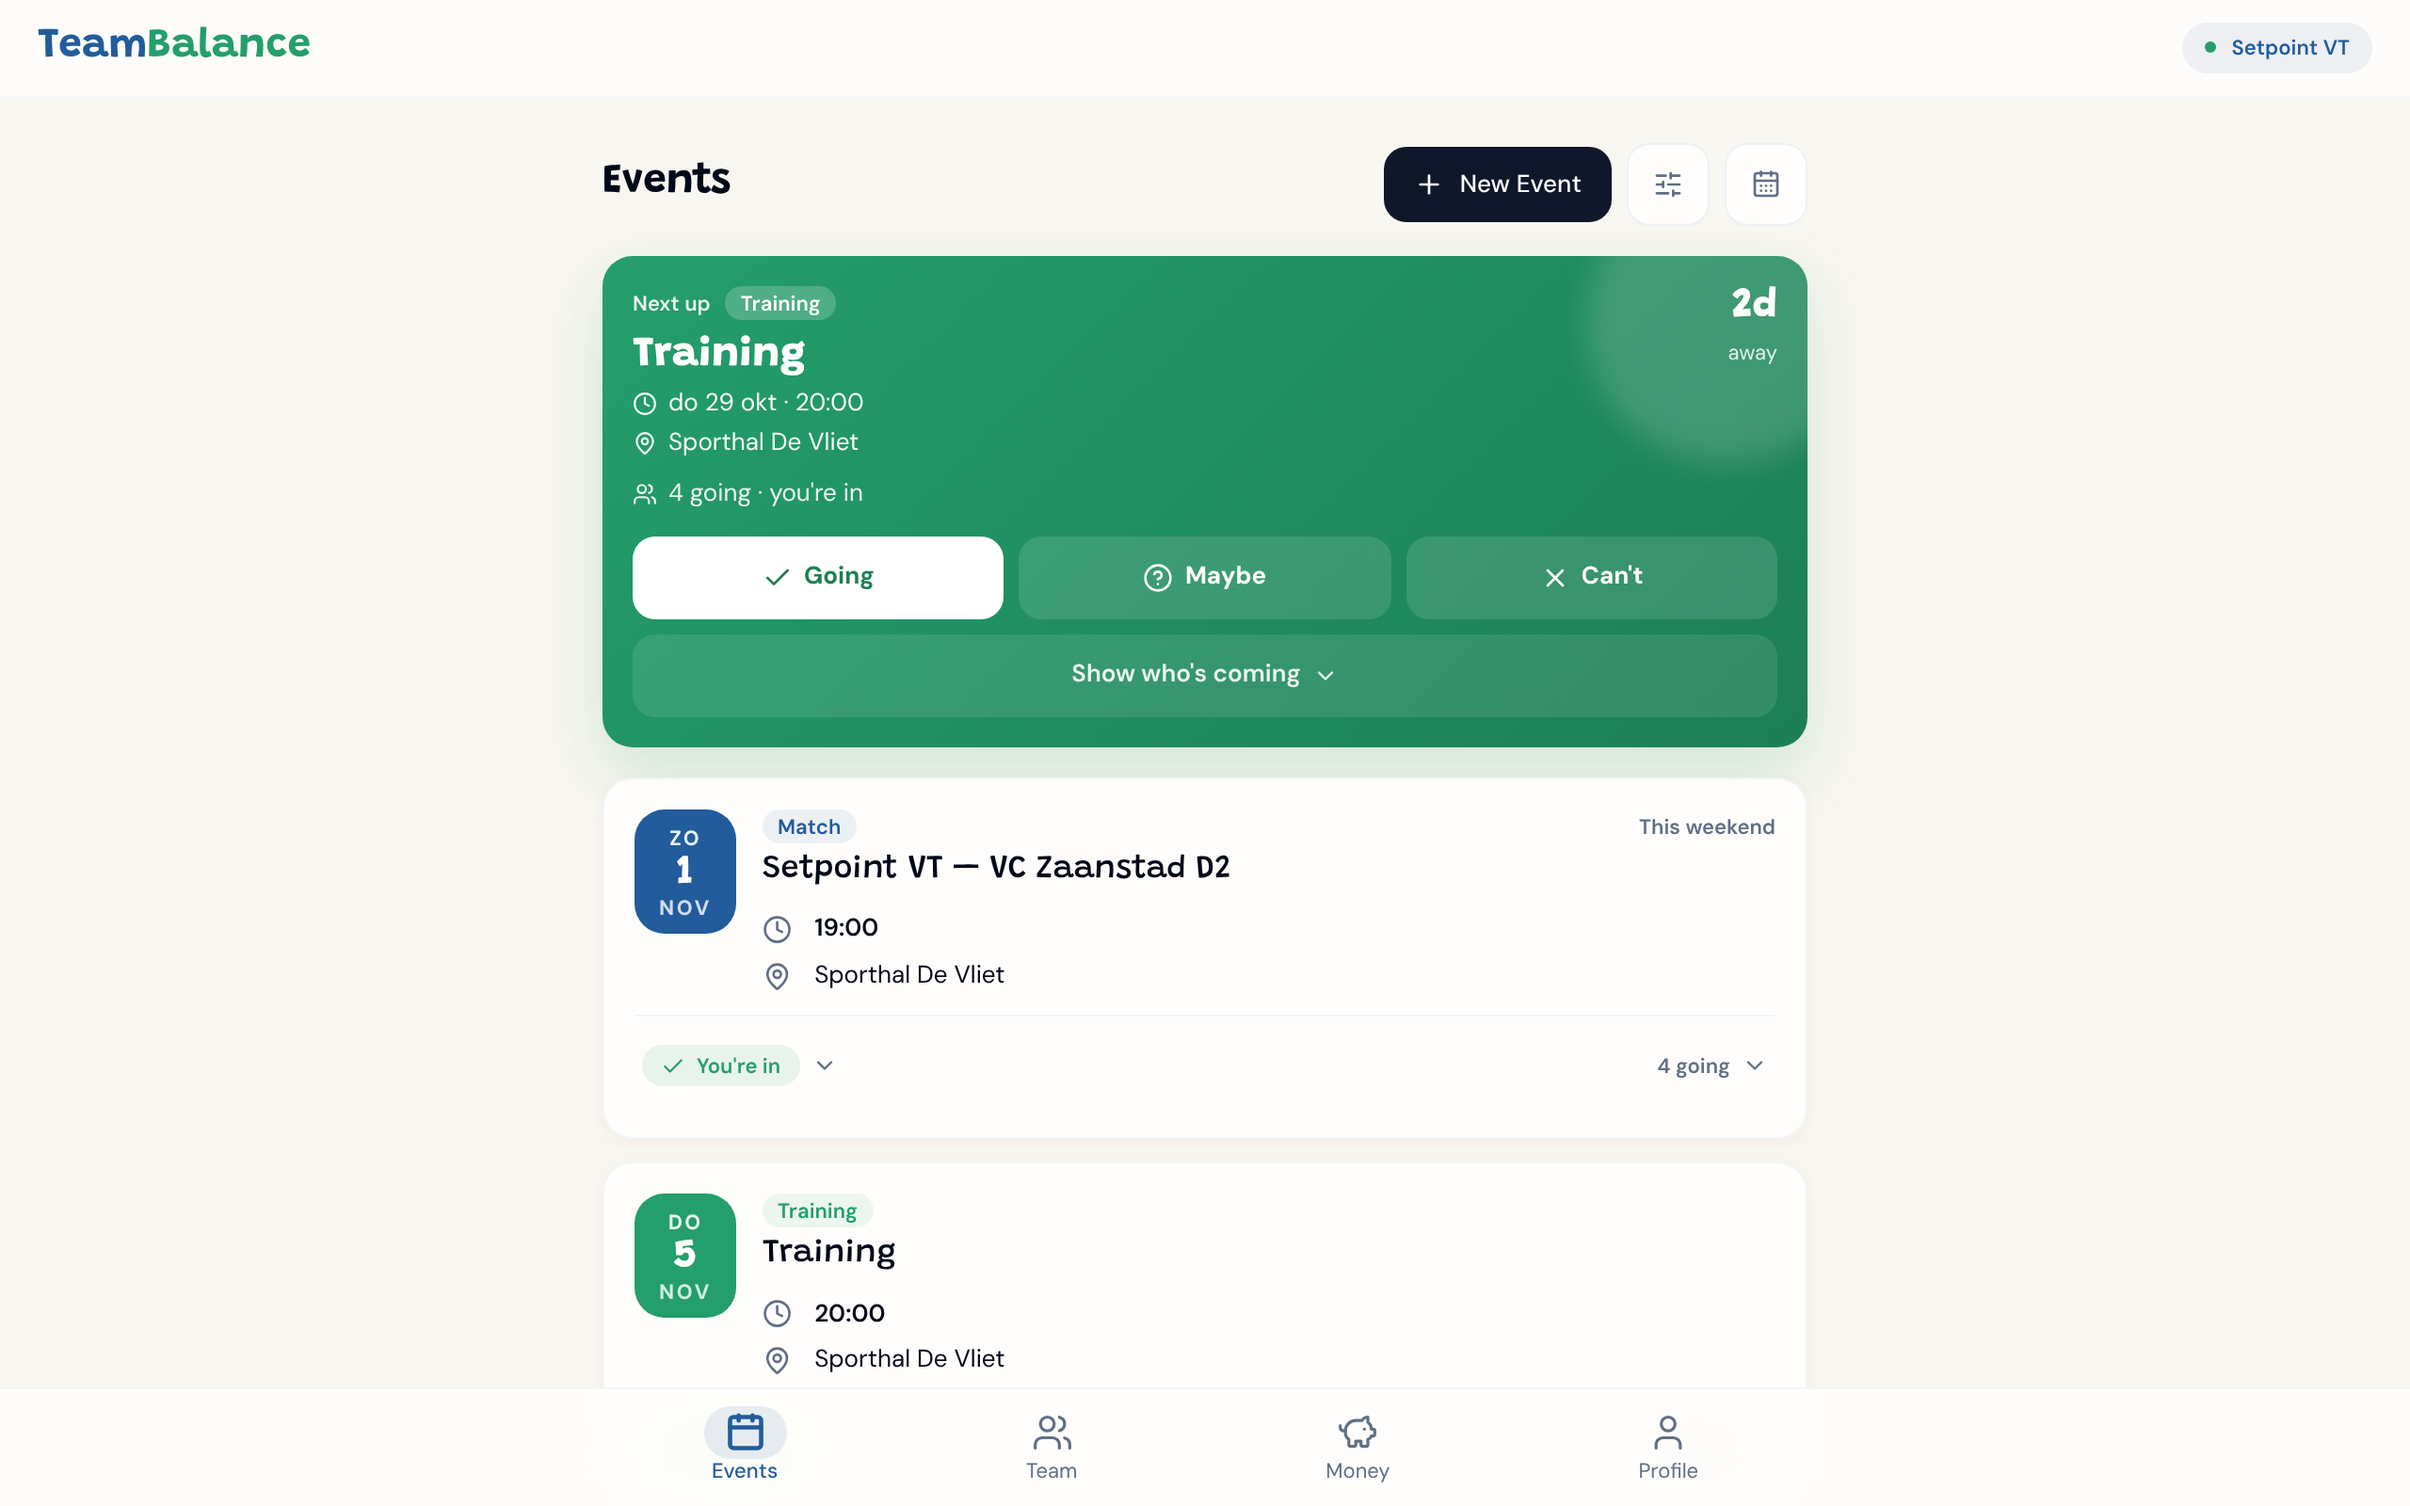
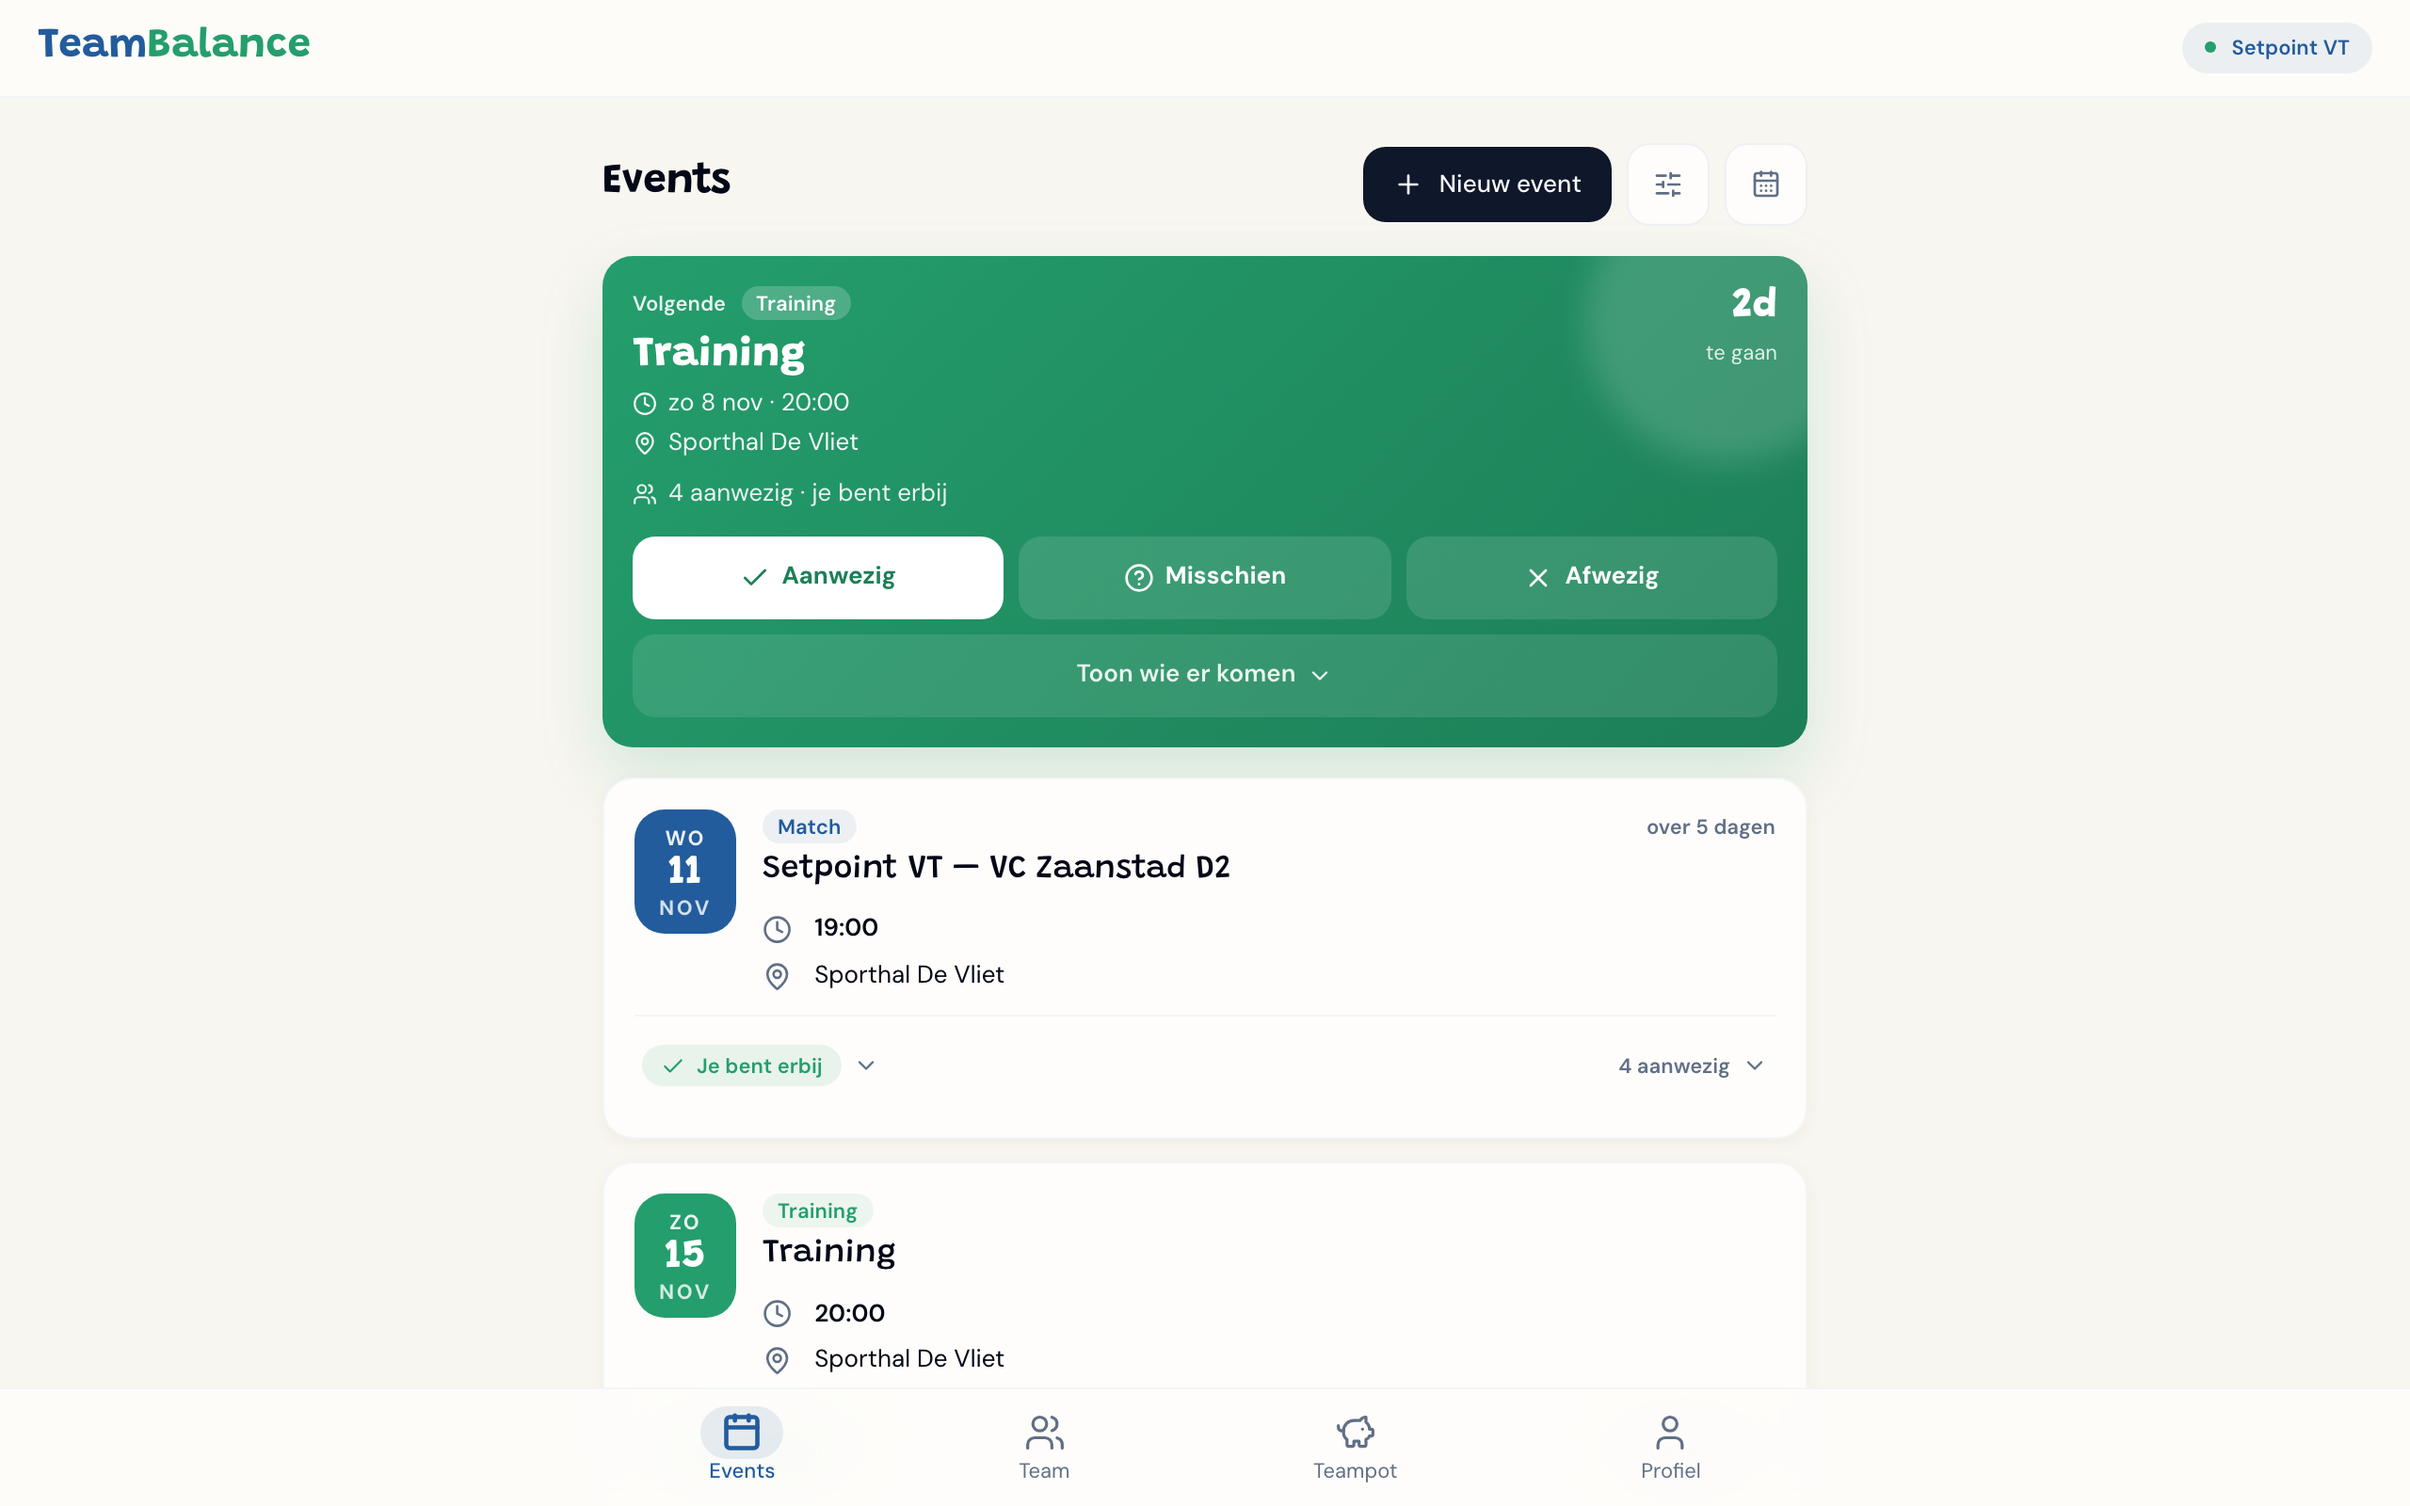
feat(app): Dutch PWA manifest and install screenshots (#464)

diff --git a/app/src/app/pwa/manifest.ts b/app/src/app/pwa/manifest.ts
@@ -16,7 +16,9 @@ export const pwaManifest: Partial<ManifestOptions> = {
   id: '/',
   name: 'TeamBalance',
   short_name: 'TeamBalance',
-  description: 'Event attendance and shared money pool for sports teams.',
+  // One Dutch manifest (#464): read once at install time, before any user language is known.
+  lang: 'nl',
+  description: 'Aanwezigheid bij events en een gedeelde teampot voor sportteams.',
   start_url: '/',
   scope: '/',
   display: 'standalone',
@@ -51,14 +53,14 @@ export const pwaManifest: Partial<ManifestOptions> = {
       sizes: '780x1688',
       type: 'image/png',
       form_factor: 'narrow',
-      label: 'Upcoming events with who is coming',
+      label: 'Komende events en wie er komen',
     },
     {
       src: 'screenshots/events-wide.png',
       sizes: '2560x1600',
       type: 'image/png',
       form_factor: 'wide',
-      label: 'Upcoming events with who is coming',
+      label: 'Komende events en wie er komen',
     },
   ],
   // Long-press / right-click quick actions on the installed icon. Every team screen lives under

diff --git a/app/src/app/pwa/manifest.test.ts b/app/src/app/pwa/manifest.test.ts
@@ -27,6 +27,16 @@ describe('pwaManifest', () => {
     })
   })
 
+  // One Dutch manifest (#464): the install dialog is read once, before any user language is known.
+  it('speaks Dutch, description and screenshot labels included', () => {
+    expect(pwaManifest.lang).toBe('nl')
+    expect(pwaManifest.description).toBe('Aanwezigheid bij events en een gedeelde teampot voor sportteams.')
+    expect((pwaManifest.screenshots ?? []).map((shot) => shot.label)).toEqual([
+      'Komende events en wie er komen',
+      'Komende events en wie er komen',
+    ])
+  })
+
   it('paints the shell with the background design token', () => {
     const tokens = readFileSync(resolve(appRoot, '../design-tokens/tokens.css'), 'utf8')
     const background = tokens.match(/--color-background:\s*(#[0-9A-Fa-f]{6})/)?.[1]
